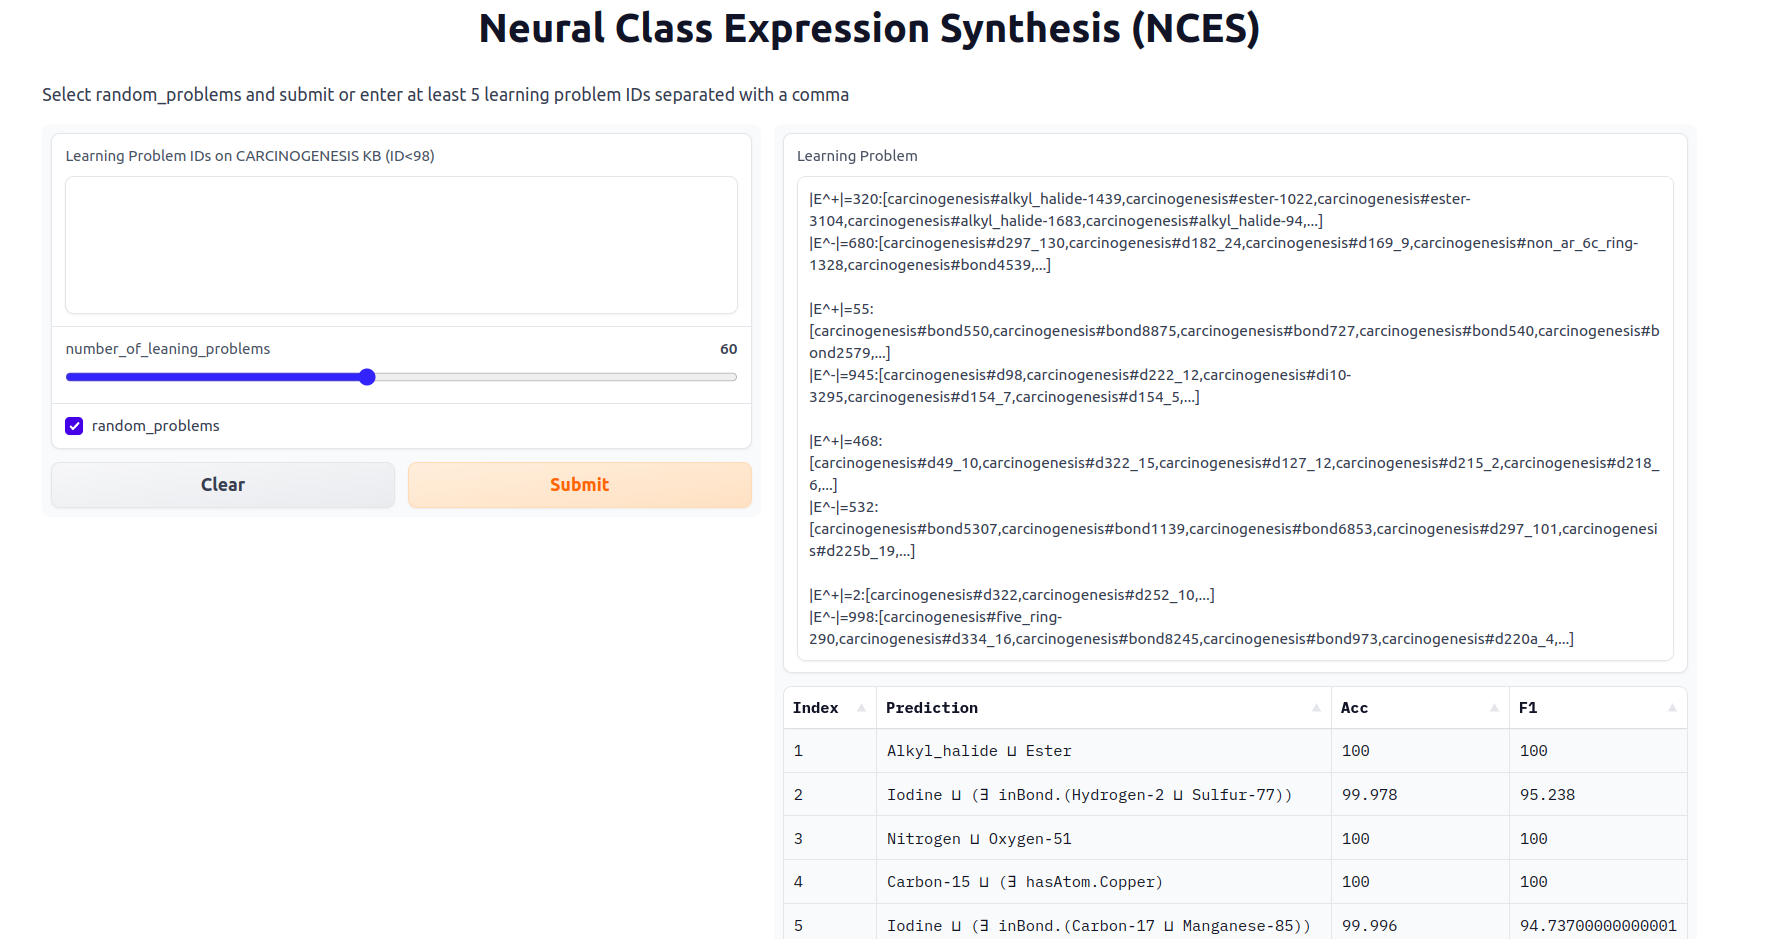
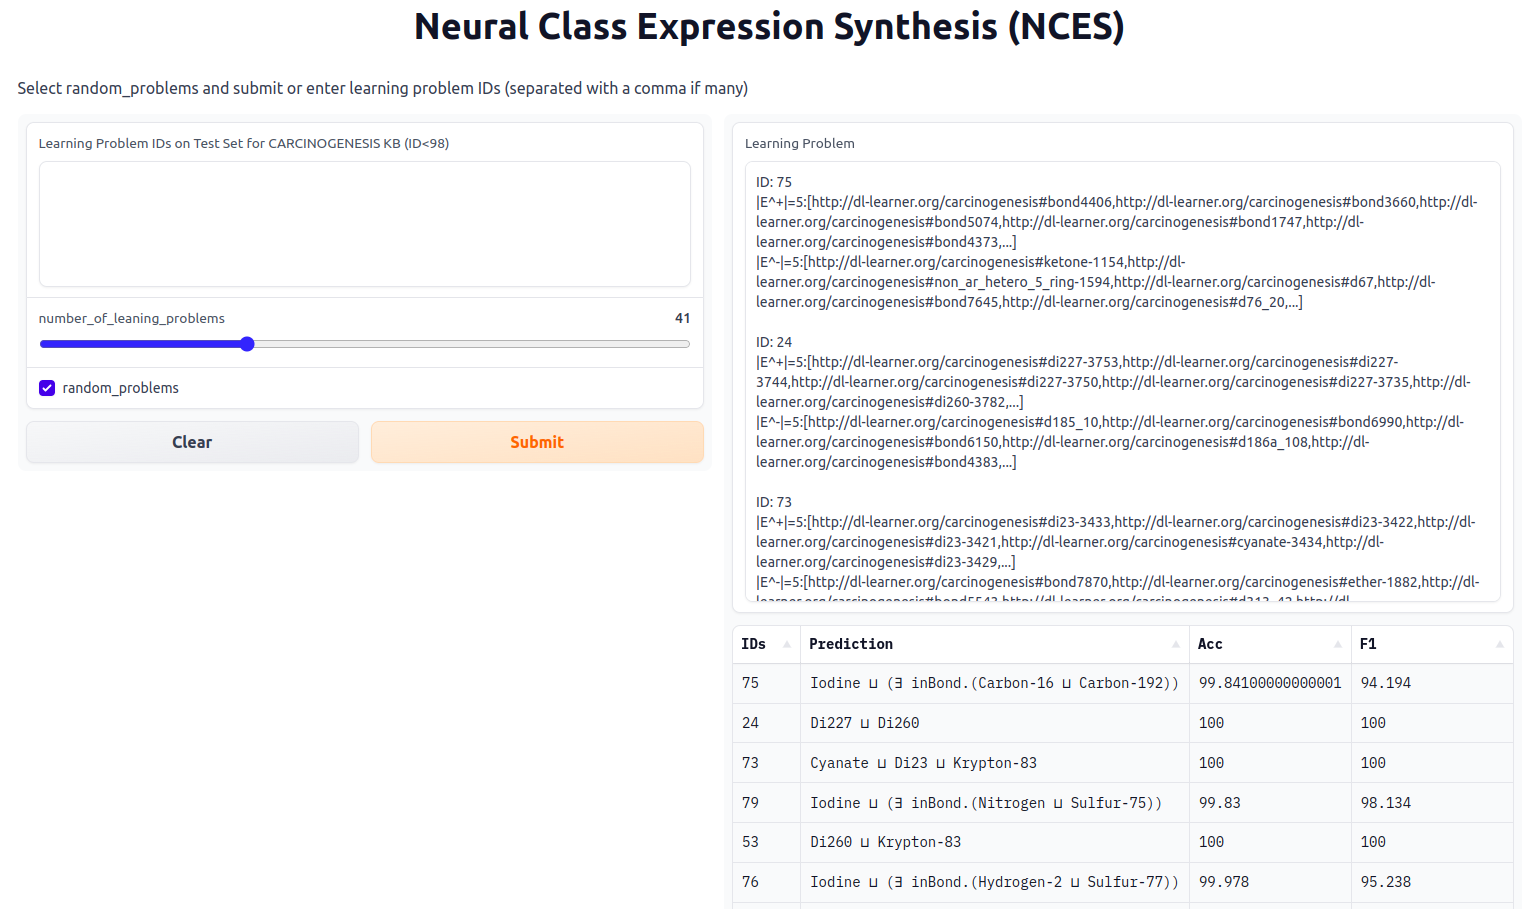
updated deployment script

diff --git a/deploy_nces.py b/deploy_nces.py
@@ -41,15 +41,8 @@ def get_data(kb, embeddings, kwargs, num_lps, selected_lps=[]):
     with open(data_test_path, "r") as file:
         data_test = json.load(file)
     num_lps = min(num_lps, len(data_test))
-    if selected_lps == []:
-        if num_lps < len(data_test):
-            data_test = random.sample(list(data_test.items()), num_lps)
-        else:
-            data_test = list(data_test.items())
-    else:
-        data_test = [list(data_test.items())[i] for i in selected_lps]
+    data_test = [list(data_test.items())[i] for i in selected_lps]
     test_dataset = CSDataLoader(data_test, embeddings, kwargs)
-    print("Number of learning problems: ", len(test_dataset))
     test_dataloader = DataLoader(test_dataset, batch_size=kwargs.batch_size, num_workers=kwargs.num_workers, collate_fn=collate_batch, shuffle=False)
     return data_test, test_dataloader
 
@@ -93,26 +86,39 @@ def launch_service(nces_model: Union[List,str], kb, kwargs):
         embeddings = pd.read_csv(f"datasets/{kb}/Embeddings/ConEx_entity_embeddings.csv").set_index('Unnamed: 0')
         kwargs.knowledge_base_path = "datasets/"+f"{kb}/{kb}.owl"
         if random_problems:
-            dataset, dataloader = get_data(kb, embeddings, kwargs, number_of_leaning_problems, [])
+            input_ids = random.sample(list(range(max_num_lps)), number_of_leaning_problems)
+            if number_of_leaning_problems<32:
+                temp_input_ids = input_ids + random.sample(list(set(range(max_num_lps))-set(input_ids)), 32)
+            else:
+                temp_input_ids = input_ids
+            dataset, dataloader = get_data(kb, embeddings, kwargs, number_of_leaning_problems, temp_input_ids)
         else:
-            dataset, dataloader = get_data(kb, embeddings, kwargs, number_of_leaning_problems, [int(idx) for idx in lp_ids.split(",")])
+            input_ids = [int(idx) for idx in lp_ids.split(",")]
+            if len(input_ids)<32:
+                temp_input_ids = input_ids + random.sample(list(set(range(max_num_lps))-set(input_ids)), 32)
+            else:
+                temp_input_ids = input_ids
+            dataset, dataloader = get_data(kb, embeddings, kwargs, number_of_leaning_problems, temp_input_ids)
         pos_emb, neg_emb, _ = next(iter(dataloader))
         if isinstance(nces_model, str):
             predictions, _ = predict_single(nces_model, pos_emb, neg_emb)
         else:
             predictions, _ = predict_ensemble(nces_model, pos_emb, neg_emb)
-        results = list(map(lambda pred: before_pad(pred), predictions))
+        results = list(map(lambda pred: before_pad(pred), predictions[:len(input_ids)]))
+        print("\nNumber of learning problems: ", len(input_ids), "\n")
         ## Evaluate solutions
         out_text = ""
-        output_results = {"Index": list(range(1,number_of_leaning_problems+1)), "Prediction": [], "Acc": [], "F1": []}
+        output_results = {"IDs": input_ids, "Prediction": [], "Acc": [], "F1": []}
         KB = KnowledgeBase(path=f"datasets/{kb}/{kb}.owl")
         evaluator = Evaluator(KB)
         syntax_checker = SyntaxChecker(KB)
         renderer = DLSyntaxObjectRenderer()
         All_individuals = set(KB.individuals())
         namespace = KB.ontology()._onto.base_iri
+        if kb == 'vicodi':
+            namespace = 'http://vicodi.org/ontology#'
         dl_parser = DLSyntaxParser(namespace = namespace)
-        for i in range(len(dataset)):
+        for i in range(len(results)):
             target_expr, examples = dataset[i]
             prediction_str = results[i]
             try:
@@ -129,18 +135,20 @@ def launch_service(nces_model: Union[List,str], kb, kwargs):
             output_results["Prediction"].append(prediction_str)
             output_results["Acc"].append(acc)
             output_results["F1"].append(f1)
-            out_text += f"|E^+|={len(examples['positive examples'])}:{'['+','.join(examples['positive examples'][:5])+',...]'}\n|E^-|={len(examples['negative examples'])}:{'['+','.join(examples['negative examples'][:5])+',...]'}\n\n"
+            pos = list(map(lambda x: namespace+x.split('#')[-1],examples['positive examples'][:5]))
+            neg = list(map(lambda x: namespace+x.split('#')[-1], examples['negative examples'][:5]))
+            out_text += f"ID: {input_ids[i]}\n" + f"|E^+|={len(pos)}:{'['+','.join(pos)+',...]'}\n|E^-|={len(neg)}:{'['+','.join(neg)+',...]'}\n\n"
             
         return out_text, pd.DataFrame(output_results)
     #return predict([], number_of_leaning_problems=1, random_problems=True)
     gr.Interface(
         fn=predict,
-        inputs=[gr.inputs.Textbox(lines=5, placeholder=None, label=f'Learning Problem IDs on {kb.upper()} KB (ID<{max_num_lps})'),
-                gr.inputs.Slider(minimum=5, maximum=128),
+        inputs=[gr.inputs.Textbox(lines=5, placeholder=None, label=f'Learning Problem IDs on Test Set for {kb.upper()} KB (ID<{max_num_lps})'),
+                gr.inputs.Slider(minimum=1, maximum=128),
                 "checkbox"],
         outputs=[gr.outputs.Textbox(label='Learning Problem'), gr.outputs.Dataframe(label='Predictions')],
         title='Neural Class Expression Synthesis (NCES)',
-        description='Select random_problems and submit or enter at least 5 learning problem IDs separated with a comma').launch(share=True)
+        description='Select random_problems and submit or enter learning problem IDs (separated with a comma if many)').launch(share=True)
 
 
 def str2bool(v):

diff --git a/generators/generate_data.py b/generators/generate_data.py
@@ -106,11 +106,10 @@ class KBToDataForConceptSynthesis:
               
             
 import argparse
-
+from embedding_triples import RDFTriples
 parser = argparse.ArgumentParser()
 
-parser.add_argument('--kbs', type=str, nargs='+', default=['carcinogenesis'], choices=['carcinogenesis', 'mutagenesis',\
-                    'semantic_bible', 'vicodi', 'premierleague', 'hepatitis'], help='Knowledge base name')
+parser.add_argument('--kbs', type=str, nargs='+', default=['carcinogenesis'], help='Knowledge base name')
 parser.add_argument('--num_rand_samples', type=int, default=10, help='The number of random samples at each step of the generation process')
 parser.add_argument('--depth', type=int, default=6, help='The depth of refinements')
 parser.add_argument('--max_child_len', type=int, default=8, help='Maximum child length')
@@ -121,5 +120,7 @@ parser.add_argument('--rho', type=str, default='ExpressRefinement', choices=['Ex
 args = parser.parse_args()
 
 for kb in args.kbs:
+    triples = RDFTriples(source_kg_path=f'../datasets/{kb}/{kb}.owl')
+    triples.export_triples()
     DataGen = KBToDataForConceptSynthesis(path=f'../datasets/{kb}/{kb}.owl', rho_name=args.rho, depth=args.depth, max_child_length=args.max_child_len, refinement_expressivity=args.refinement_expressivity, downsample_refinements=True, num_rand_samples=args.num_rand_samples, min_num_pos_examples=1, max_num_pos_examples=args.max_num_pos_examples)
     DataGen.generate_descriptions().save_data()

diff --git a/utils/syntax_checker.py b/utils/syntax_checker.py
@@ -11,6 +11,8 @@ from tokenizers.trainers import BpeTrainer
 from tokenizers.pre_tokenizers import Whitespace, WhitespaceSplit
 from transformers import AutoTokenizer, PreTrainedTokenizerFast
 
+os.environ["TOKENIZERS_PARALLELISM"] = "false"
+
 class SyntaxChecker:
     '''-Python class for checking and validating/correcting/suggesting DL class expressions
        -Includes methods that can query the instances of a class expression and compute the f-measure w.r.t. positive and negative examples    
